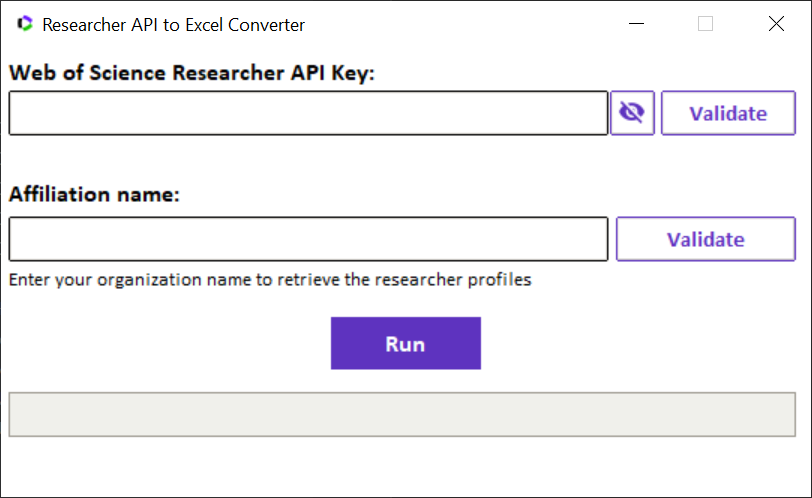
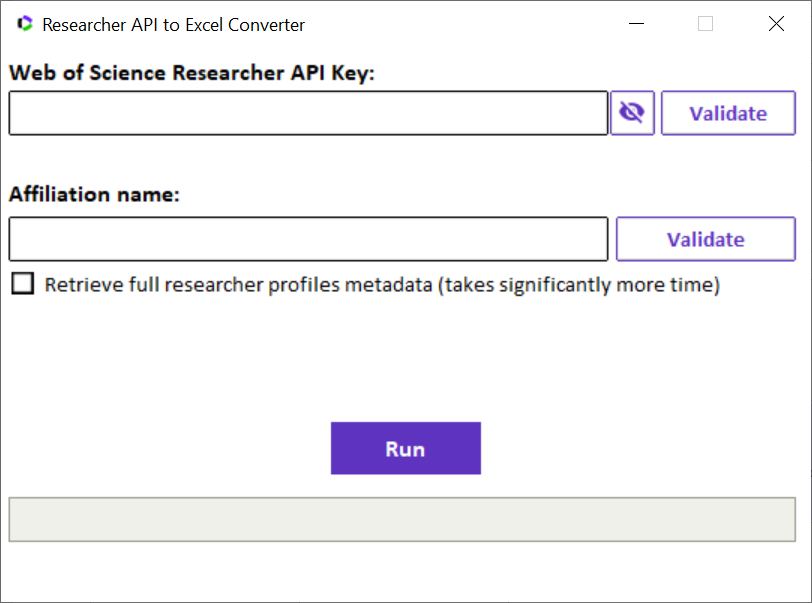
Added an option to retrieve full researcher profiles metadata (but it takes longer time to retrieve, and has higher chances of exceeding the daily API requests limit)

diff --git a/researcher-api-excel-converter/main.py b/researcher-api-excel-converter/main.py
@@ -4,7 +4,7 @@ import urllib.parse
 import time
 import pandas as pd
 import tkinter as tk
-from tkinter import ttk
+from tkinter import ttk, BooleanVar, IntVar
 from datetime import date
 
 
@@ -23,12 +23,83 @@ def fetch_researchers_data(data, researchers):
         })
 
 
+# Getting full reearcher profile data through individual researcher API calls
+def fetch_full_researchers_data(data, researcher):
+    researcher['orcid'] = '; '.join(data['ids']['orcids'])
+    researcher['claim_status'] = data['claimStatus']
+    researcher['first_name'] = data['name']['firstName']
+    researcher['last_name'] = data['name']['lastName']
+    altnames = []
+    for altname in data['name']['alternativeNames']:
+        altnames.append(altname['name'])
+    researcher['alt_names'] = '; '.join(altnames)
+    researcher['published_years'] = {}
+    for published_year in data['metricsAllTime']['documents']['publishedYears']:
+        researcher['published_years'][published_year['year']] = published_year['numberOfDocuments']
+    researcher['citing_publications'] = data['metricsAllTime']['totalCitingPublications']
+    researcher['citing_publications_excluding_self'] = data['metricsAllTime']['totalCitingWithoutSelf']
+    researcher['times_cited_excluding_self'] = data['metricsAllTime']['totalTimesCitedWithoutSelf']
+    primary_org_addresses = []
+    primary_org_countries = []
+    for primary_org in data['organization']['primaryAffiliation']:
+        primary_org_addresses.append(primary_org['address'])
+        primary_org_countries.append(primary_org['country'])
+    researcher['primary_org_addresses'] = '; '.join(primary_org_addresses)
+    researcher['primary_org_countries'] = '; '.join(primary_org_countries)
+    departments = []
+    for department in data['organization']['departments']:
+        departments.append(department)
+    researcher['departments'] = '; '.join(departments)
+    researcher['affiliations'] = {}
+    for i in range(len(data['organization']['affiliations'])):
+        researcher['affiliations'][i] = {}
+        researcher['affiliations'][i]['start_year'] = data['organization']['affiliations'][i]['startYear']
+        researcher['affiliations'][i]['end_year'] = data['organization']['affiliations'][i]['endYear']
+        researcher['affiliations'][i]['organization'] = data['organization']['affiliations'][i]['organization']
+        researcher['affiliations'][i]['num_docs'] = data['organization']['affiliations'][i]['numberOfDocuments']
+    researcher['author_position_first'] = data['authorPosition']['first']['numberOfDocuments']
+    researcher['author_position_last'] = data['authorPosition']['last']['numberOfDocuments']
+    researcher['author_position_corresponding'] = data['authorPosition']['corresponding']['numberOfDocuments']
+
+
 # A function for hiding/unhiding symbols in the API Key field
 def unhide_symbols():
     if app.apikey_window['show'] == "*":
         app.apikey_window['show'] = ""
     else:
         app.apikey_window['show'] = "*"
+
+
+# A function that checks the existing search query vs the daily API threshold. Launched each time the checkbutton is
+# checked/unchecked
+def check_vs_limits():
+    researcher_profiles_found = app.researcher_profiles_found.get()
+    search_requests_required = app.search_requests_required.get()
+    requests_left = app.requests_left.get()
+    if app.retrieve_full_profile_data.get() and (researcher_profiles_found + search_requests_required) > requests_left:
+        app.our_org_bottom_label['text'] = f"Researcher Profiles found: {researcher_profiles_found}\n" \
+                                           f"Warning: this would require " \
+                                           f"{researcher_profiles_found + search_requests_required} API " \
+                                           f"requests to retrieve, you only have {requests_left} remaining \ntoday."
+        app.search_button.config(state='disabled', text='Run')
+    elif app.retrieve_full_profile_data.get() == 0 and search_requests_required > requests_left:
+        app.our_org_bottom_label['text'] = f"Researcher Profiles found: {researcher_profiles_found}\n" \
+                                           f"Warning: this would require " \
+                                           f"{researcher_profiles_found + search_requests_required} API " \
+                                           f"requests to retrieve, you only have {requests_left} remaining \ntoday."
+        app.search_button.config(state='disabled', text='Run')
+    elif app.retrieve_full_profile_data.get() and (researcher_profiles_found + search_requests_required) <= \
+            requests_left and researcher_profiles_found > 0:
+        app.our_org_bottom_label['text'] = f"Researcher Profiles found: {researcher_profiles_found}\n\n"
+        app.search_button.config(state='active', text='Run')
+    elif app.retrieve_full_profile_data.get() == 0 and search_requests_required <= requests_left and \
+            researcher_profiles_found > 0:
+        app.our_org_bottom_label['text'] = f"Researcher Profiles found: {researcher_profiles_found}\n\n"
+        app.search_button.config(state='active', text='Run')
+    elif researcher_profiles_found == 0 and search_requests_required > 0 and requests_left > 0:
+        app.our_org_bottom_label['text'] = f'Please check your Affiliation name\n\n'
+    else:
+        pass
 
 
 # A function for checking the validity of the API key
@@ -60,20 +131,50 @@ def validate_affiliation():
                                       headers={'X-APIKey': user_apikey})
     if validation_request.status_code == 200:
         validation_data = validation_request.json()
-        requests_left = validation_request.headers['X-RateLimit-Remaining-Day']
-        if int(requests_left) < 100:
-            app.apikey_bottom_label['text'] = f"API Authentication succeeded; Requests left today: {requests_left}"
+        requests_left = int(validation_request.headers['X-RateLimit-Remaining-Day'])
+        researcher_profiles_found = int(validation_data['metadata']['total'])
+        search_requests_required = ((researcher_profiles_found - 1) // 50) + 1
+        if app.retrieve_full_profile_data.get():
+            app.requests_left.set(requests_left)
+            app.researcher_profiles_found.set(researcher_profiles_found)
+            app.search_requests_required.set(search_requests_required)
+            if requests_left < 1000:
+                app.apikey_bottom_label['text'] = f"API Authentication succeeded; Requests left today: {requests_left}"
+            else:
+                app.apikey_bottom_label['text'] = f"API Authentication succeeded"
+            if (researcher_profiles_found + search_requests_required) > requests_left:
+                app.our_org_bottom_label['text'] = f"Researcher Profiles found: {researcher_profiles_found}\n" \
+                                                   f"Warning: this would require " \
+                                                   f"{researcher_profiles_found + search_requests_required} API " \
+                                                   f"requests to retrieve, you only have {requests_left} remaining\n" \
+                                                   f"today."
+                app.search_button.config(state='disabled', text='Run')
+                return researcher_profiles_found
+            elif (researcher_profiles_found + search_requests_required) <= requests_left and \
+                    researcher_profiles_found > 0:
+                app.our_org_bottom_label['text'] = f"Researcher Profiles found: {researcher_profiles_found}\n\n"
+                app.search_button.config(state='active', text='Run')
+                return researcher_profiles_found
+            else:
+                app.our_org_bottom_label['text'] = f'Please check your Affiliation name\n\n'
+                return False
         else:
-            app.apikey_bottom_label['text'] = f"API Authentication succeeded"
-        records_amount = validation_data['metadata']['total']
-        if records_amount > 0:
-            app.our_org_bottom_label['text'] = f"Researcher Profiles found: {records_amount}"
-            return records_amount
-        else:
-            app.our_org_bottom_label['text'] = f'Please check your Affiliation name'
-            return False
+            app.requests_left.set(requests_left)
+            app.researcher_profiles_found.set(researcher_profiles_found)
+            app.search_requests_required.set(search_requests_required)
+            if requests_left < 1000:
+                app.apikey_bottom_label['text'] = f"API Authentication succeeded; Requests left today: {requests_left}"
+            else:
+                app.apikey_bottom_label['text'] = f"API Authentication succeeded"
+            if app.researcher_profiles_found.get() > 0:
+                app.our_org_bottom_label['text'] = f"Researcher Profiles found: {researcher_profiles_found}\n\n"
+                app.search_button.config(state='active', text='Run')
+                return researcher_profiles_found
+            else:
+                app.our_org_bottom_label['text'] = f'Please check your Affiliation name\n\n'
+                return False
     else:
-        app.our_org_bottom_label['text'] = f'Please check your Affiliation name'
+        app.our_org_bottom_label['text'] = f'Please check your Affiliation name\n\n'
         return False
 
 
@@ -85,32 +186,57 @@ def researcher_api_request(i, requests_required, our_org, researchers):
                                headers={'X-APIKey': app.apikey_window.get()})
         data = request.json()
         fetch_researchers_data(data, researchers)
-        progress = ((i + 1) / requests_required) * 100
-        app.progress_bar.config(value=progress)
-        app.style.configure('Clarivate.Horizontal.TProgressbar', text=f'{progress:.1f}%')
-        app.root.update_idletasks()
-        print(f'{((i + 1) * 100) / requests_required:.1f}% complete')
     except(requests.exceptions.ConnectionError, requests.exceptions.JSONDecodeError, KeyError):
         print(f'Resending Researcher API request #{i + 1}')
         time.sleep(1)
         researcher_api_request(i, requests_required, our_org, researchers)
 
 
+# Sending requests to individual researcher profiles to get the full data
+def individual_profile_api_request(researcher, researchers):
+    try:
+        request = requests.get(f'https://api.clarivate.com/apis/wos-researcher/researchers/'
+                               f'{researcher["rid"]}', headers={'X-APIKey': app.apikey_window.get()})
+        data = request.json()
+        fetch_full_researchers_data(data, researcher)
+    except(requests.exceptions.ConnectionError, requests.exceptions.JSONDecodeError):
+        print(f'Resending individual researcher profile {researcher["rid"]}request #{researchers.index(researcher)}')
+        time.sleep(1)
+        individual_profile_api_request(researcher, researchers)
+
+
 # The main function that launches all the others
 def main_function():
     app.search_button.config(state='disabled', text='Retrieving...')
     app.progress_label['text'] = ''
-    records_amount = validate_affiliation()
-    if records_amount is False:
+    researcher_profiles_found = validate_affiliation()
+    if researcher_profiles_found is False:
         app.search_button.config(state='active', text='Run')
     else:
         if app.progress_label['text'] == 'Please check your search query':
             app.progress_label['text'] = ''
         our_org = app.our_org_window.get()
-        requests_required = (records_amount // 50) + 1
+        requests_required = ((researcher_profiles_found - 1) // 50) + 1
         researchers = []
         for i in range(requests_required):
             researcher_api_request(i, requests_required, our_org, researchers)
+            if app.retrieve_full_profile_data.get():
+                progress = ((i + 1) / (requests_required + researcher_profiles_found)) * 100
+            else:
+                progress = ((i + 1) / requests_required) * 100
+            print(f'{progress:.1f}% complete')
+            app.progress_bar.config(value=progress)
+            app.style.configure('Clarivate.Horizontal.TProgressbar', text=f'{progress:.1f}%')
+            app.root.update_idletasks()
+        if app.retrieve_full_profile_data.get():
+            for researcher in researchers:
+                individual_profile_api_request(researcher, researchers)
+                progress = ((requests_required + researchers.index(researcher) + 1) /
+                            (requests_required + researcher_profiles_found)) * 100
+                print(f'{progress:.1f}% complete')
+                app.progress_bar.config(value=progress)
+                app.style.configure('Clarivate.Horizontal.TProgressbar', text=f'{progress:.1f}%')
+                app.root.update_idletasks()
         output(researchers, our_org)
         app.search_button.config(state='active', text='Run')
         complete_message = f"Retrieval complete. Please check the 'researchers - {our_org} - {date.today()}.xlsx' " \
@@ -135,14 +261,44 @@ def output(researchers, our_org):
     df['wos_platform_link'] = 'https://www.webofscience.com/wos/author/record/' + df['rid']
     df['rid'] = df['rid'] + ' '
 
-    with pd.ExcelWriter(f'researchers - {our_org} - {date.today()}.xlsx') as writer:
-        df.to_excel(writer, sheet_name='Authors', index=False)
+    if app.retrieve_full_profile_data.get():
+        df2 = pd.concat([df['rid'], df['fullname'], df['published_years'].apply(pd.Series)], axis=1)
+        df3 = pd.concat([df['rid'], df['fullname'], df['affiliations'].apply(pd.Series)], axis=1)
+        temp_dfs = []
+        for col in df3.columns:
+            if col != 'rid':
+                temp_dfs.append(pd.concat((df3['rid'], df['fullname'], df3[col].apply(pd.Series)), axis=1))
+        df4 = temp_dfs[0]
+        for i in range(1, len(temp_dfs)):
+            df4 = pd.concat((df4, temp_dfs[i]), axis=0)
+        df4 = df4.drop(0, axis=1)
+        df4 = df4.dropna(axis=0)
+        df4 = df4.sort_values(['rid'])
+        base_columns = ['rid', 'fullname']
+        years_columns = [col for col in df2.columns if col not in base_columns]
+        sorted_years = sorted(years_columns, key=lambda x: x)
+        df2 = df2[base_columns + sorted_years]
+        df = df.drop(['published_years', 'affiliations'], axis=1)
+        df = df[['rid', 'fullname', 'first_name', 'last_name', 'alt_names', 'claim_status', 'primary_affiliation',
+                 'primary_org_addresses', 'primary_org_countries', 'departments', 'documents_count', 'times_cited',
+                 'times_cited_excluding_self', 'citing_publications', 'citing_publications_excluding_self', 'h-index',
+                 'author_position_first', 'author_position_last', 'author_position_corresponding', 'orcid',
+                 'wos_platform_link']]
+
+        with pd.ExcelWriter(f'researchers - {our_org} - detailed profiles - {date.today()}.xlsx') as writer:
+            df.to_excel(writer, sheet_name='Authors', index=False)
+            df2.to_excel(writer, sheet_name='Publications by Years', index=False)
+            df4.to_excel(writer, sheet_name='Known Affiliations', index=False)
+
+    else:
+        with pd.ExcelWriter(f'researchers - {our_org} - {date.today()}.xlsx') as writer:
+            df.to_excel(writer, sheet_name='Authors', index=False)
 
 
 # Defining a class through threading so that the interface doesn't freeze when the data is being retrieved through API
 class App(threading.Thread):
 
-    def __init__(self,):
+    def __init__(self, ):
         threading.Thread.__init__(self)
         self.root = None
         self.style = None
@@ -156,6 +312,11 @@ class App(threading.Thread):
         self.our_org_label = None
         self.our_org_window = None
         self.our_org_validate_button = None
+        self.retrieve_full_profile_data = None
+        self.researcher_profiles_found = None
+        self.search_requests_required = None
+        self.requests_left = None
+        self.full_profiles_checkbutton = None
         self.our_org_bottom_label = None
         self.search_button = None
         self.progress_bar = None
@@ -168,7 +329,7 @@ class App(threading.Thread):
         # Setting up style and geometry
         self.root.iconbitmap('./assets/clarivate.ico')
         self.root.title("Researcher API to Excel Converter")
-        self.root.geometry("540x300")
+        self.root.geometry("540x370")
         self.root.resizable(False, False)
         self.style = ttk.Style(self.root)
         self.style.theme_use('clam')
@@ -201,6 +362,30 @@ class App(threading.Thread):
                        background=[('disabled', '#DADADA'), ('!disabled', '#5E33BF')],
                        focuscolor=[('disabled', '#DADADA'), ('!disabled', '#5E33BF')]
                        )
+        # Setting up a Checkbutton to look
+        img_unselected = tk.PhotoImage(file='./assets/XC_icon_box_01.png')
+        img_selected = tk.PhotoImage(file='./assets/XC_icon_tick_04.png')
+        self.style.element_create('custom.indicator', 'image', img_unselected,
+                                  ('selected', '!disabled', img_selected))
+        self.style.layout(
+            'Clarivate.TCheckbutton',
+            [('Checkbutton.padding',
+              {'sticky': 'nswe',
+               'children': [('custom.indicator', {'side': 'left', 'sticky': ''}),
+                            ('Checkbutton.focus',
+                             {'side': 'left',
+                              'sticky': '',
+                              'children': [('Checkbutton.label', {'sticky': 'nswe'})]})]})])
+
+        self.style.configure('Clarivate.TCheckbutton', font=('Calibri', 11), indicatorsize=16)
+        self.style.map('Clarivate.TCheckbutton',
+                       foreground=[('disabled', '#DADADA'), ('!disabled', '#000000')],
+                       background=[('disabled', '#FFFFFF'), ('!disabled', '#FFFFFF')],
+                       focuscolor=[('disabled', '#FFFFFF'), ('!disabled', '#FFFFFF')],
+                       indicatorforeground=[('selected', '#5E33BF'), ('!selected', '#FFFFFF')],
+                       indicatorbackground=[('selected', '#FFFFFF'), ('active', '#F0F0EB'), ('!selected', '#FFFFFF')],
+                       upperbordercolor=[('selected', '#5E33BF'), ('!selected', '#646363'), ('disabled', '#DADADA')],
+                       lowerbordercolor=[('selected', '#5E33BF'), ('!selected', '#646363'), ('disabled', '#DADADA')])
         # We had to borrow the horizontal progressbar from the Default scheme in order to remove one extra frame
         # around the progress bar
         self.style.element_create('color.pbar', 'from', 'default')
@@ -253,9 +438,19 @@ class App(threading.Thread):
         self.our_org_window = ttk.Entry(self.api_frame, font=('Calibri', 11))
         self.our_org_validate_button = ttk.Button(self.api_frame, text="Validate", style='Small.TButton',
                                                   command=self.check_affiliation)
-        self.our_org_bottom_label = ttk.Label(self.api_frame,
-                                              text='Enter your organization name to retrieve the researcher profiles',
-                                              style='Regular.TLabel')
+        self.retrieve_full_profile_data = BooleanVar()
+        self.researcher_profiles_found = IntVar()
+        self.search_requests_required = IntVar()
+        self.requests_left = IntVar()
+        self.full_profiles_checkbutton = ttk.Checkbutton(self.api_frame,
+                                                         text='  Retrieve full researcher profiles metadata (takes '
+                                                              'significantly more time)',
+                                                         variable=self.retrieve_full_profile_data,
+                                                         command=check_vs_limits,
+                                                         onvalue=True,
+                                                         offvalue=False,
+                                                         style='Clarivate.TCheckbutton')
+        self.our_org_bottom_label = ttk.Label(self.api_frame, text='', style='Regular.TLabel')
         self.search_button = ttk.Button(self.api_frame,
                                         text='Run',
                                         style='Large.TButton',
@@ -265,7 +460,7 @@ class App(threading.Thread):
         self.progress_label = ttk.Label(self.api_frame, style='Regular.TLabel')
 
         # Placing widgets
-        self.api_frame.place(x=0, y=0, width=540, height=300)
+        self.api_frame.place(x=0, y=0, width=540, height=370)
         self.apikey_top_label.place(x=5, y=5, width=535, height=24)
         self.apikey_window.place(x=5, y=29, width=400, height=30)
         self.apikey_unhide_button.place(x=406, y=29, width=30, height=30)
@@ -274,10 +469,11 @@ class App(threading.Thread):
         self.our_org_label.place(x=5, y=83, width=400, height=30)
         self.our_org_window.place(x=5, y=113, width=400, height=30)
         self.our_org_validate_button.place(x=410, y=113, width=120, height=30)
-        self.our_org_bottom_label.place(x=5, y=143, width=500, height=24)
-        self.search_button.place(x=220, y=180, width=100, height=35)
-        self.progress_bar.place(x=5, y=230, width=525, height=30)
-        self.progress_label.place(x=5, y=260, width=525, height=40)
+        self.full_profiles_checkbutton.place(x=5, y=143, width=500, height=30)
+        self.our_org_bottom_label.place(x=5, y=173, width=525, height=48)
+        self.search_button.place(x=220, y=250, width=100, height=35)
+        self.progress_bar.place(x=5, y=300, width=525, height=30)
+        self.progress_label.place(x=5, y=330, width=525, height=40)
 
         self.root.mainloop()
 

diff --git a/researcher-api-excel-converter/Readme.md b/researcher-api-excel-converter/Readme.md
@@ -11,15 +11,25 @@ This is a very simple program that requires a Researcher API key, and an Affilia
 #### The user needs to launch the main.py file and enter:
 1. Their Researcher API key;
 2. The name of the Affiliaiton for which they would like to retrieve the researchers data
+3. Click the checkbutton if they want the program to query each researcher profile individually and receive full researcher profiles metadata (including research output numbers broken down by publication years, first/last/corresponding author statistics, published names, alternative affiliations, etc.) or if they are ok with receiving basic profiles metadata which is going to be much quicker
 
 ![Screenshot](/researcher-api-excel-converter/screenshots/GUI2.png)
 
 And click the Run button.
 
-The program will create an Excel file in the same project folder, where each Researcher record will have their ResearcherID, their full name, their primary affiliation, their H-index, documents found, and times cited, as well as a link to their researcher profile on Web of Science platform user interface, resolved through the ResearcherID.
+The program will create an Excel file in the same project folder, where, if the "Retrieve full researcher profiles metadata" tickbox hasn't been ticked, each Researcher record will have their:
+- ResearcherID,
+- full name,
+- their primary affiliation,
+- H-index,
+- Number of documents found,
+- Times cited counts,
+- as well as a link to their researcher profile on Web of Science platform user interface, resolved through the ResearcherID.
 
 ![Screenshot](/researcher-api-excel-converter/screenshots/results.png)
 
-It is important that the data available through the /researchers{rid} endpoint contains additional data fields, such as Published Names, research output by years, times cited without self-citations, and more. It is possible to develop a functionality to retrieve this extended researcher metadata (as well basic document-level and peer reviews data), as the relevant links to the correct endpoints are also returned by a get-request to the default /researchers endpoint, but each of these requests will take additional time.
+If the "Retrieve full researcher profiles metadata" tickbox has been ticked, then additional data fields, such as Published Names, research output by years, times cited without self-citations, and more, will also be retrieved and stored in the excel file, some of them on separate sheets.
 
-As always, we welcome any feedback on this code.
+It is also possible to develop a functionality to retrieve the basic document-level and peer reviews data, as the relevant links to the correct endpoints are also returned by a get-request to the default /researchers endpoint, but each of these requests will take additional time. These two additional tickboxes will appear in subsequent releases of this converter tool.
+
+As always, we welcome user feedback on this code.
